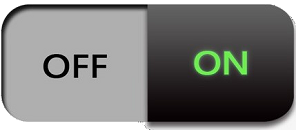
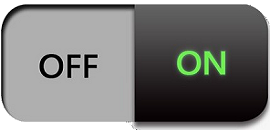
Version 2.7 Menu de Inicio en progreso Boton play terminado

diff --git a/src/codigo/VentanaJuego.java b/src/codigo/VentanaJuego.java
@@ -48,16 +48,18 @@ public class VentanaJuego extends javax.swing.JFrame {
     //Imagen para cargar el spritsheet con todos los sprites del juego
     BufferedImage plantilla = null;
     Image [][] imagenes;
-    Image [][] botones;
-    int filaBotones = 3;
-    int columnaBotones = 2;
-    int anchoBoton = 129;
-    int altoBoton = 50;
+    Image botones;
+    int filaBotones = 5;
+    int columnaBotones = 1;
+    int anchoBotonLargo = 268;
+    int altoBoton = 130;
     int ratonX = 0;
     int ratonY = 0;
     boolean iniciaJuego = false;
     Image botonPlay = null;
     Image botonOptions = null;
+    Image botonOn = null;
+    Image botonOff = null;
     Image fondoPantalla = null;
     
     //Declaro una variable para contar las bajas 
@@ -82,7 +84,6 @@ public class VentanaJuego extends javax.swing.JFrame {
         setSize(ANCHOPANTALLA,ALTOPANTALLA);
         buffer = (BufferedImage) jPanel1.createImage(ANCHOPANTALLA,ALTOPANTALLA);
         buffer.createGraphics();
-        botones = cargaBotones("/imagenes/Menu Buttons.png");
 //        pintaMenu();
         
             //Aqui empieza el juego
@@ -134,7 +135,7 @@ public class VentanaJuego extends javax.swing.JFrame {
         }        
     }
     private void funcionMenuInicio(){
-        int posX_Imagen = 300-anchoBoton/2;
+        int posX_Imagen = 300-anchoBotonLargo/2;
         int posY_Imagen = 225-altoBoton/2;
         if((ratonX >= posX_Imagen && ratonX <= posX_Imagen + botonPlay.getWidth(null))
                 && (ratonY >= posY_Imagen && ratonY <= posY_Imagen + botonPlay.getHeight(null))){
@@ -146,26 +147,25 @@ public class VentanaJuego extends javax.swing.JFrame {
     //La y = 350 del boton play
     private void pintaMenu(Graphics2D _g2){
 //        botones;
-        botonOptions = botones[1][6];
-        botonPlay = botones[1][6];
-        
-             _g2.drawImage(botonPlay,300-anchoBoton/2,225-altoBoton/2,null);
+//        botonOptions = botones[1][4];
+        botonPlay = cargaBotones("/imagenes/Play.png");
+        botonOptions = cargaBotones("/imagenes/options.png");
+        botonOn = cargaBotones("/imagenes/interruptor_on.png");
+        botonOff = cargaBotones("/imagenes/interruptor_off.png");
+             _g2.drawImage(botonPlay,300-anchoBotonLargo/2,225-altoBoton/2,null);
+            _g2.drawImage(botonOptions,ANCHOPANTALLA-botonOptions.getWidth(null),0,null);
              
     }
     
     // 128*49 tamaño botones
     // Aqui se cargaran los botones del juego
-    private Image[][] cargaBotones(String nombreArchivo){
+    private Image cargaBotones(String nombreArchivo){
         try {
             plantilla = ImageIO.read(getClass().getResource(nombreArchivo));
         }catch (IOException ex) {}
-        Image[][] arrayBotones = new Image[filaBotones][columnaBotones];
-        for(int i=0; i<filaBotones; i++){
-            for(int j=0; j<columnaBotones; j++){
-              arrayBotones[i][j] = plantilla.getSubimage(j*anchoBoton, i*altoBoton, anchoBoton, altoBoton);
-            }
-        }
-        return arrayBotones;
+        Image boton = null;
+        boton = plantilla;
+        return boton;
     }
     /*
         Este metodo va servir para cargar el array de imagenes del sprite sheet . 
